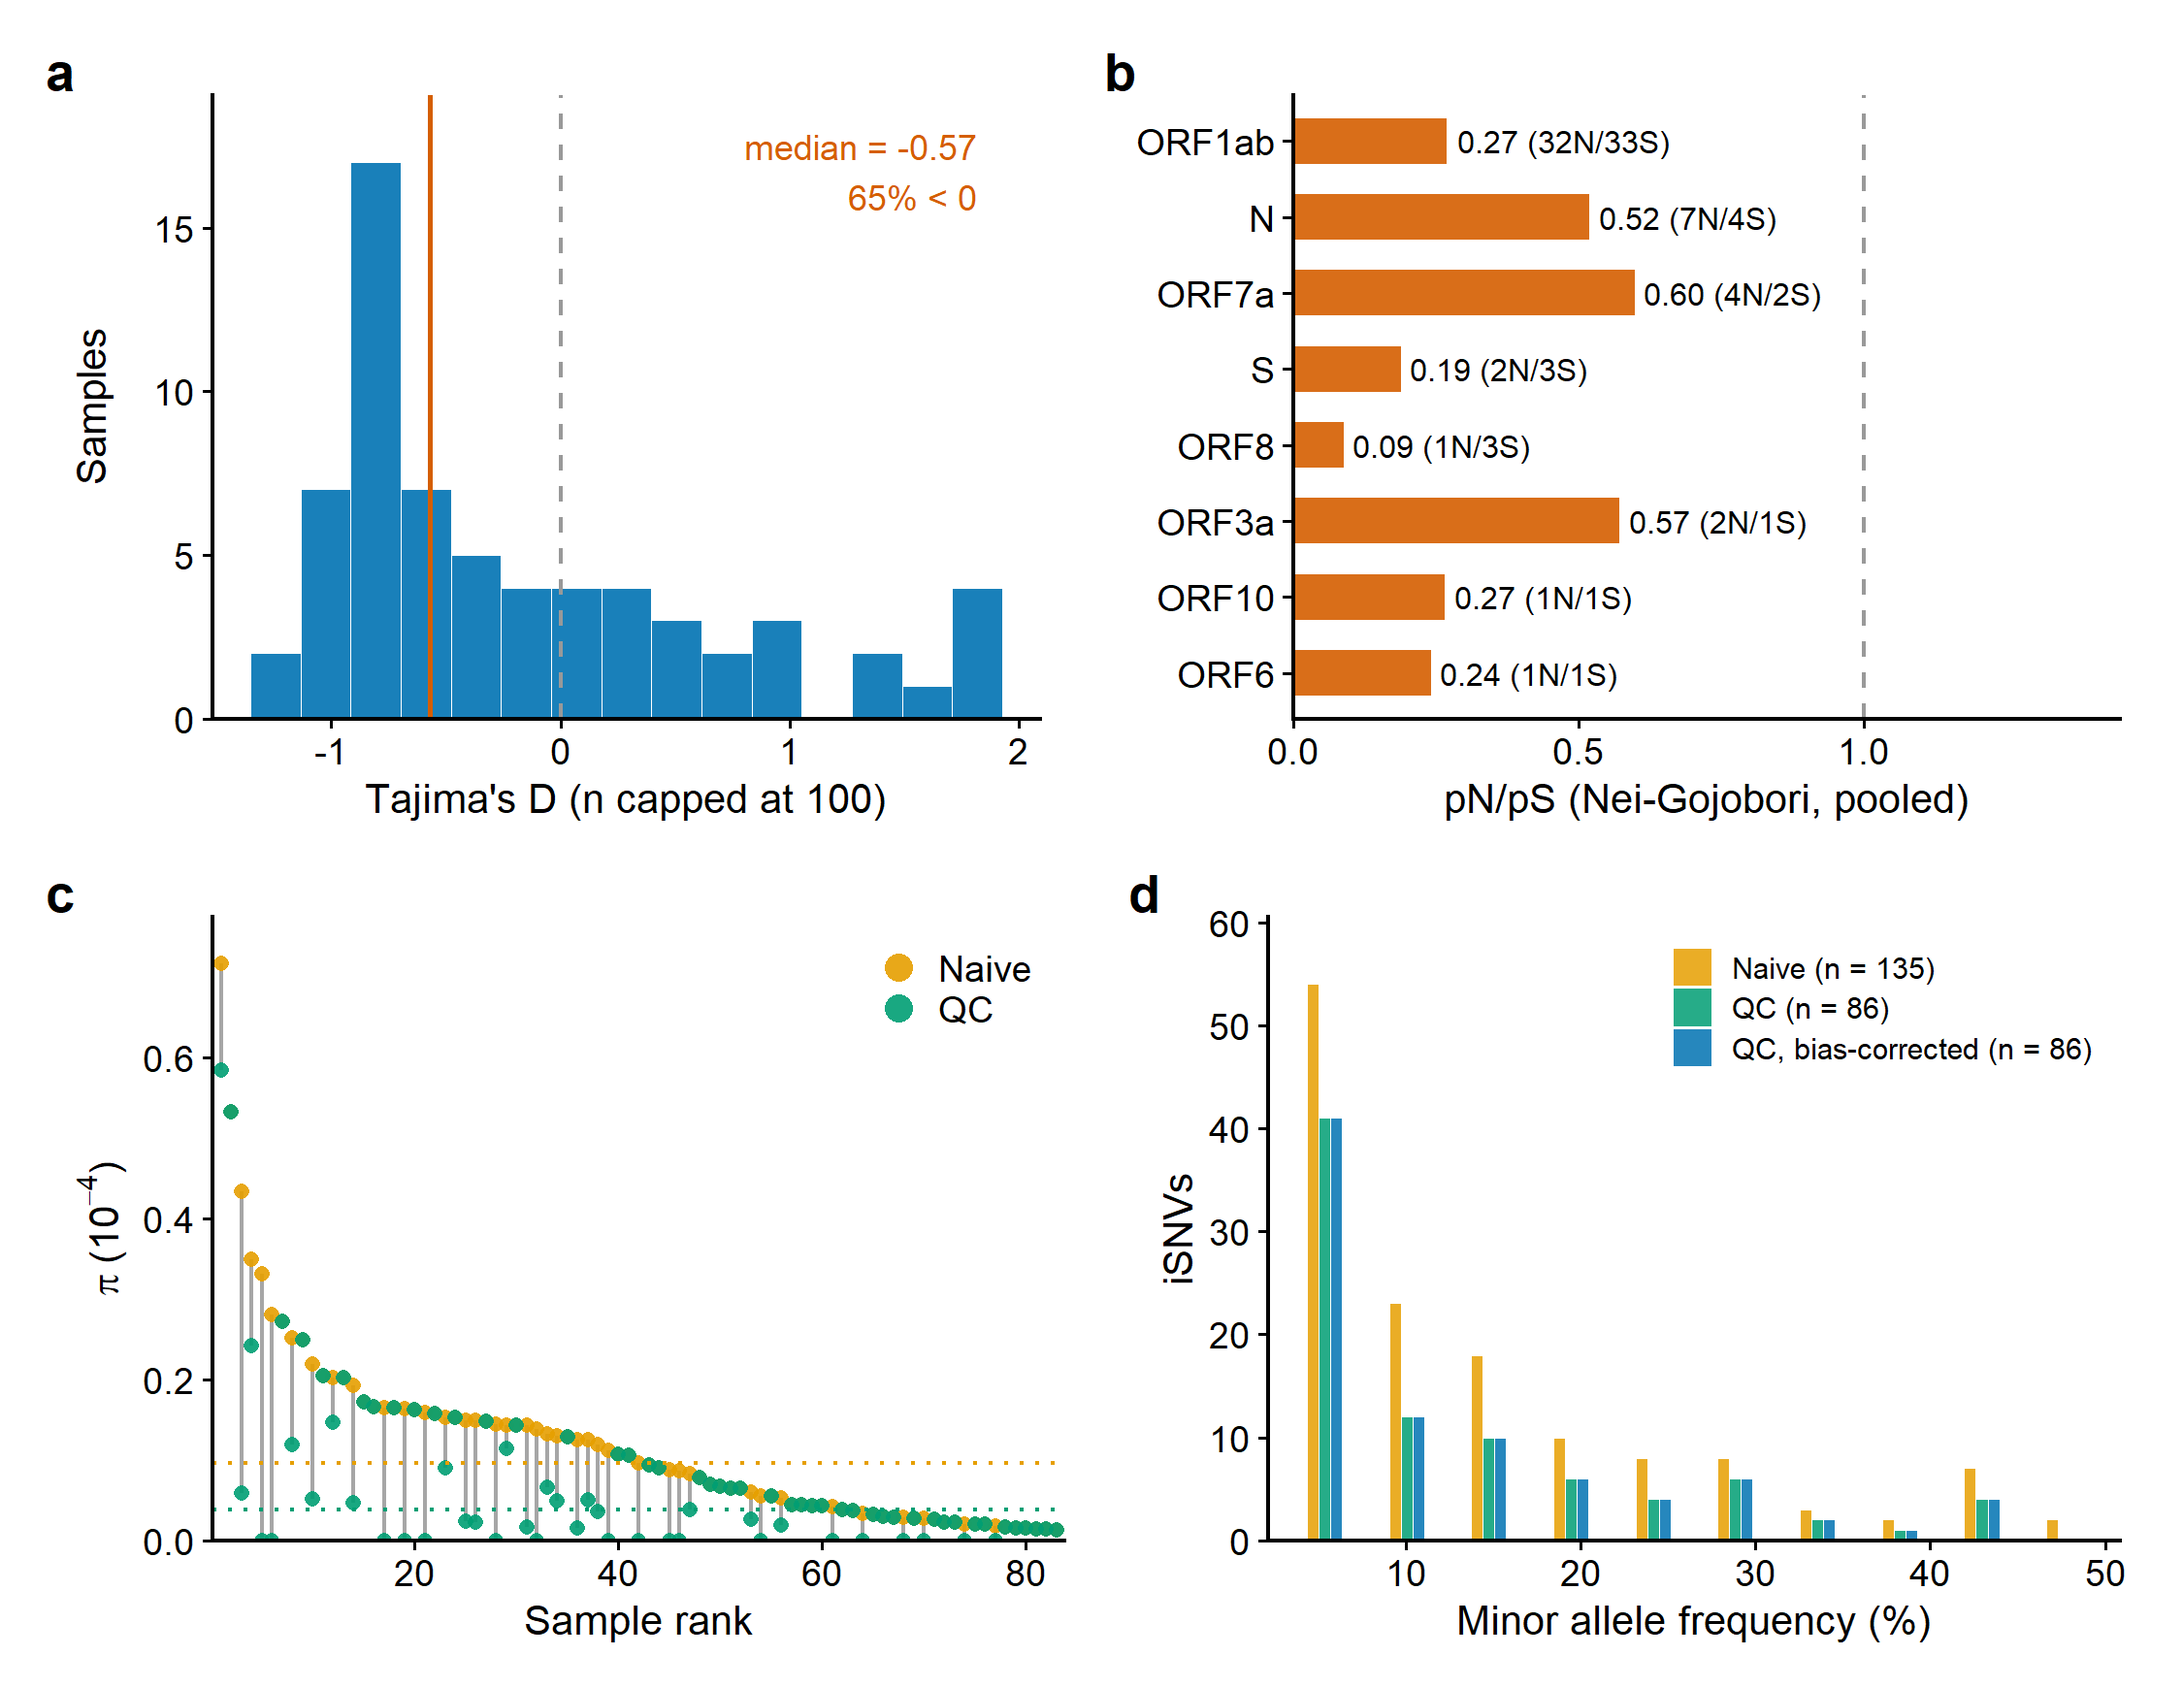
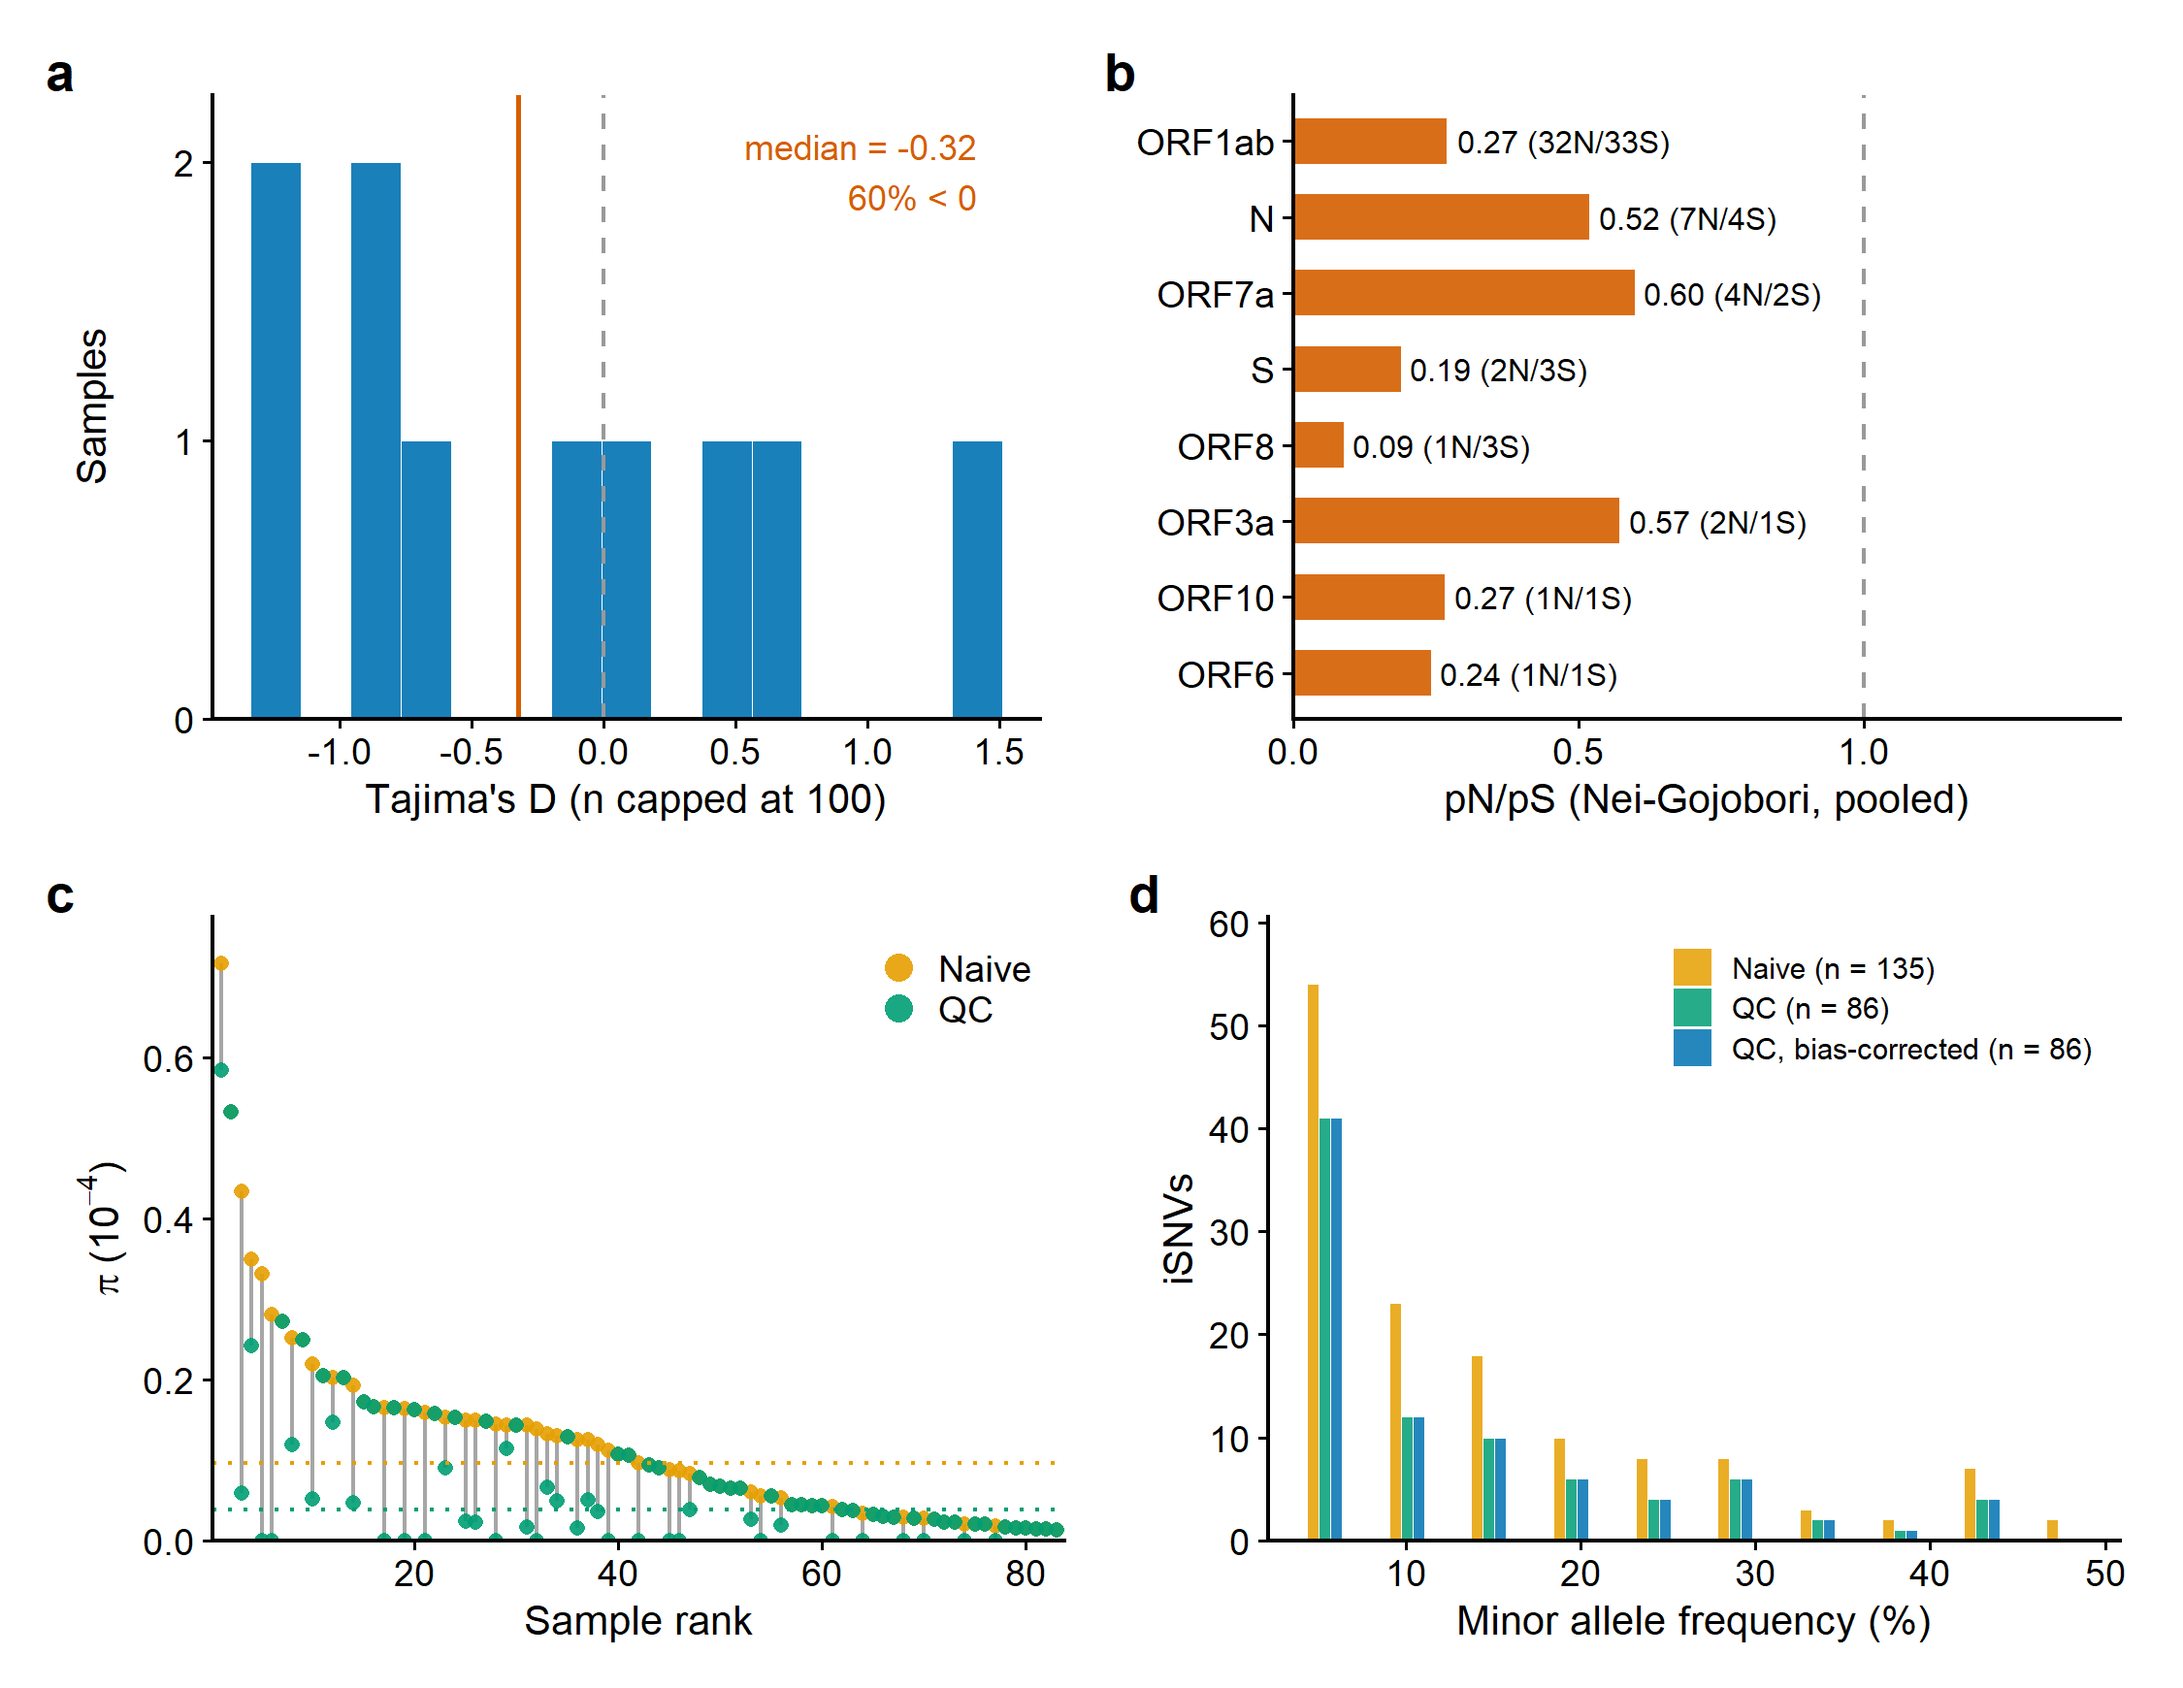
Return NA from Tajima's D below three segregating sites
With one segregating site D is a monotone function of that site's
frequency, with two a function of two frequencies, and at zero sites
the statistic is 0/0; none describes a frequency spectrum. tajimaD()
now returns NA with a warning for S below three, where it returned 0
at S = 0 and a number at S = 1 or 2. calcNeutralityTests() reports
n_sites, the number of segregating sites each statistic rests on, and
gives one warning naming how many samples fell below the rule.

The README figures follow the rule: Figure 5a now shows the 10 samples
carrying three or more concordant calls (41 carry one and 14 two), and
Figure 6a pairs 10 samples instead of 65; both captions say so, and
count axes tick at whole numbers. The vignette's per-pathogen table
takes n_sites from the result rather than from the row count.

diff --git a/inst/scripts/README_template.md b/inst/scripts/README_template.md
@@ -169,12 +169,14 @@ of the two replicates.
 </div>
 
 > **Figure 5 | Population-genetic summaries of the flagged data.**
-> **(a)** Tajima's D for the {{fig5::a::samples with >= 1 concordant iSNV::%d}} samples with at least one
-> concordant iSNV and a finite D, using read depth capped at 100 as the sample size:
-> median {{fig5::a::median Tajima D (QC, n capped at 100)::%.2f}}, {{fig5::a::percentage of samples with D < 0::%.0f}}% below zero. These are weak summaries and are
-> shown as such: {{fig5::a::samples resting on a single concordant call::%d}} of the {{fig5::a::samples with >= 1 concordant iSNV::%d}} samples ({{fig5::a::percentage resting on a single concordant call::%.0f}}%) carry a single
-> concordant call, where D is a monotone function of that one frequency rather
-> than a description of a spectrum, and only {{fig5::a::samples with at least three concordant calls::%d}} carry three or more. Calls
+> **(a)** Tajima's D for the {{fig5::a::samples with at least three concordant calls::%d}} samples carrying at least three
+> concordant iSNVs, using read depth capped at 100 as the sample size:
+> median {{fig5::a::median Tajima D (QC, n capped at 100)::%.2f}}, {{fig5::a::percentage of samples with D < 0::%.0f}}% below zero. They are the minority:
+> of the {{fig5::a::samples with >= 1 concordant iSNV::%d}} samples with any concordant call, {{fig5::a::samples resting on a single concordant call::%d}} carry one
+> ({{fig5::a::percentage resting on a single concordant call::%.0f}}%) and {{fig5::a::samples with two concordant calls::%d}} carry two. Below three segregating sites D
+> is a function of one or two frequencies rather than a description of a
+> spectrum, so `tajimaD()` returns `NA` and those samples are absent from the
+> panel. Calls
 > below the 2% frequency threshold are absent, and negative D is expected both
 > under purifying selection and after population growth, so these values
 > describe the spectra rather than test either.
@@ -208,16 +210,17 @@ of the two replicates.
 </div>
 
 > **Figure 6 | What replicate QC changes.**
-> **(a)** Tajima's D before and after QC in the {{fig6::a::samples with finite D before and after QC::%d}} samples with a
-> finite value in both: median {{fig6::a::median Tajima D naive::%.2f}} before QC and {{fig6::a::median Tajima D QC::%.2f}} after. QC
-> removed no call in most of them, so it changed D in {{fig6::a::samples whose D changed under QC::%d}} samples, and among
-> those the median change is {{fig6::a::median change in D among samples QC altered::%.2f}} (95% CI {{fig6::a::95% CI lower, altered samples::%.2f}} to {{fig6::a::95% CI upper, altered samples::%.2f}}, distribution-free
-> from binomial order statistics). Taken over all {{fig6::a::samples with finite D before and after QC::%d}} the median change is
-> {{fig6::a::median paired change in D (QC minus naive)::%.2f}} with an interval of {{fig6::a::95% CI lower (order statistics)::%.2f}} to {{fig6::a::95% CI upper (order statistics)::%.2f}}: the unchanged samples
-> outnumber the rest, so that interval collapses onto the median and carries no
-> information about the size of the change. A further {{fig6::a::samples excluded because QC left no call::%d}} samples leave the
-> comparison altogether because QC removed every call and D has no value after
-> it -- the samples QC affected most.
+> **(a)** Tajima's D before and after QC in the {{fig6::a::samples with finite D before and after QC::%d}} samples carrying at
+> least three calls both before and after: median {{fig6::a::median Tajima D naive::%.2f}} before QC and
+> {{fig6::a::median Tajima D QC::%.2f}} after. QC removed no call from most of them, so it changed D in
+> {{fig6::a::samples whose D changed under QC::%d}}, where the median change is {{fig6::a::median change in D among samples QC altered::%.2f}}; so few values admit no
+> distribution-free 95% interval, which needs at least six. Over all
+> {{fig6::a::samples with finite D before and after QC::%d}} the median change is {{fig6::a::median paired change in D (QC minus naive)::%.2f}}, with a 95% interval of
+> {{fig6::a::95% CI lower (order statistics)::%.2f}} to {{fig6::a::95% CI upper (order statistics)::%.2f}} from binomial order statistics: the
+> unchanged samples outnumber the rest, so the interval sits against zero and
+> carries little information about the size of the change. A further
+> {{fig6::a::samples excluded because QC left fewer than three calls::%d}} samples leave the comparison because QC left them fewer
+> than three calls, so they have no D after QC.
 > **(b)** Frequency spectra of the calls QC kept and the calls it removed
 > ({{fig6::b::calls kept by QC in the spectrum::%d}} and {{fig6::b::calls removed by QC in the spectrum::%d}} of them fall inside the binned
 > frequency range), compared with `compareSFS()`:

diff --git a/README.md b/README.md
@@ -169,12 +169,14 @@ of the two replicates.
 </div>
 
 > **Figure 5 | Population-genetic summaries of the flagged data.**
-> **(a)** Tajima's D for the 65 samples with at least one
-> concordant iSNV and a finite D, using read depth capped at 100 as the sample size:
-> median -0.57, 65% below zero. These are weak summaries and are
-> shown as such: 41 of the 65 samples (63%) carry a single
-> concordant call, where D is a monotone function of that one frequency rather
-> than a description of a spectrum, and only 10 carry three or more. Calls
+> **(a)** Tajima's D for the 10 samples carrying at least three
+> concordant iSNVs, using read depth capped at 100 as the sample size:
+> median -0.32, 60% below zero. They are the minority:
+> of the 65 samples with any concordant call, 41 carry one
+> (63%) and 14 carry two. Below three segregating sites D
+> is a function of one or two frequencies rather than a description of a
+> spectrum, so `tajimaD()` returns `NA` and those samples are absent from the
+> panel. Calls
 > below the 2% frequency threshold are absent, and negative D is expected both
 > under purifying selection and after population growth, so these values
 > describe the spectra rather than test either.
@@ -208,16 +210,17 @@ of the two replicates.
 </div>
 
 > **Figure 6 | What replicate QC changes.**
-> **(a)** Tajima's D before and after QC in the 65 samples with a
-> finite value in both: median -0.35 before QC and -0.57 after. QC
-> removed no call in most of them, so it changed D in 20 samples, and among
-> those the median change is -0.23 (95% CI -0.42 to 0.09, distribution-free
-> from binomial order statistics). Taken over all 65 the median change is
-> 0.00 with an interval of 0.00 to 0.00: the unchanged samples
-> outnumber the rest, so that interval collapses onto the median and carries no
-> information about the size of the change. A further 18 samples leave the
-> comparison altogether because QC removed every call and D has no value after
-> it -- the samples QC affected most.
+> **(a)** Tajima's D before and after QC in the 10 samples carrying at
+> least three calls both before and after: median -0.32 before QC and
+> -0.32 after. QC removed no call from most of them, so it changed D in
+> 3, where the median change is -0.09; so few values admit no
+> distribution-free 95% interval, which needs at least six. Over all
+> 10 the median change is 0.00, with a 95% interval of
+> -0.09 to 0.00 from binomial order statistics: the
+> unchanged samples outnumber the rest, so the interval sits against zero and
+> carries little information about the size of the change. A further
+> 6 samples leave the comparison because QC left them fewer
+> than three calls, so they have no D after QC.
 > **(b)** Frequency spectra of the calls QC kept and the calls it removed
 > (86 and 49 of them fall inside the binned
 > frequency range), compared with `compareSFS()`:

diff --git a/NEWS.md b/NEWS.md
@@ -71,7 +71,10 @@
 * Neutrality tests: `tajimaD()`, `fusFs()`, and
   `calcNeutralityTests()` for site-frequency-spectrum-based
   neutrality testing with deep-sequencing-aware sample size
-  capping.
+  capping. `tajimaD()` returns `NA`, with a warning, below three
+  segregating sites, where D is a function of one or two frequencies
+  rather than of a spectrum; `calcNeutralityTests()` reports
+  `n_sites`, the number of sites each statistic rests on.
 * **Site frequency spectrum as a first-class object**:
   `WithinHostSFS` S4 class stores the within-host SFS with
   metadata (sample, genome length, depth, detection threshold).
